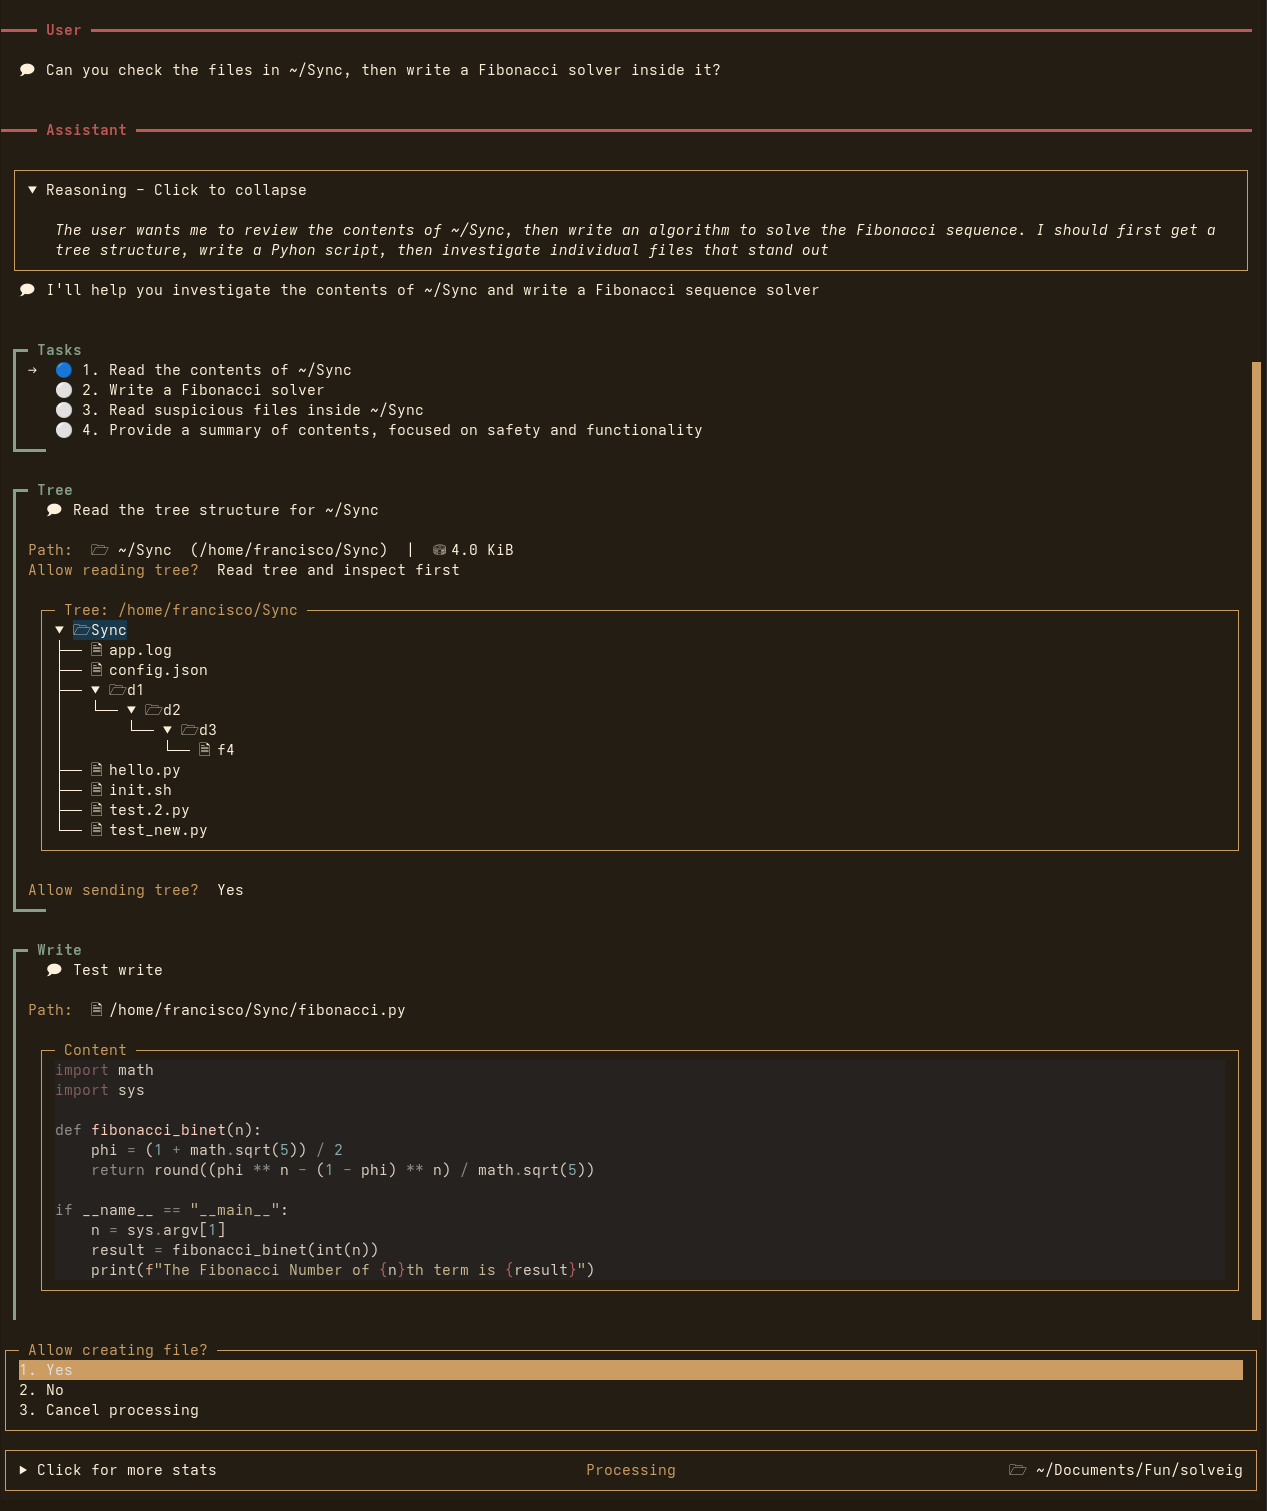
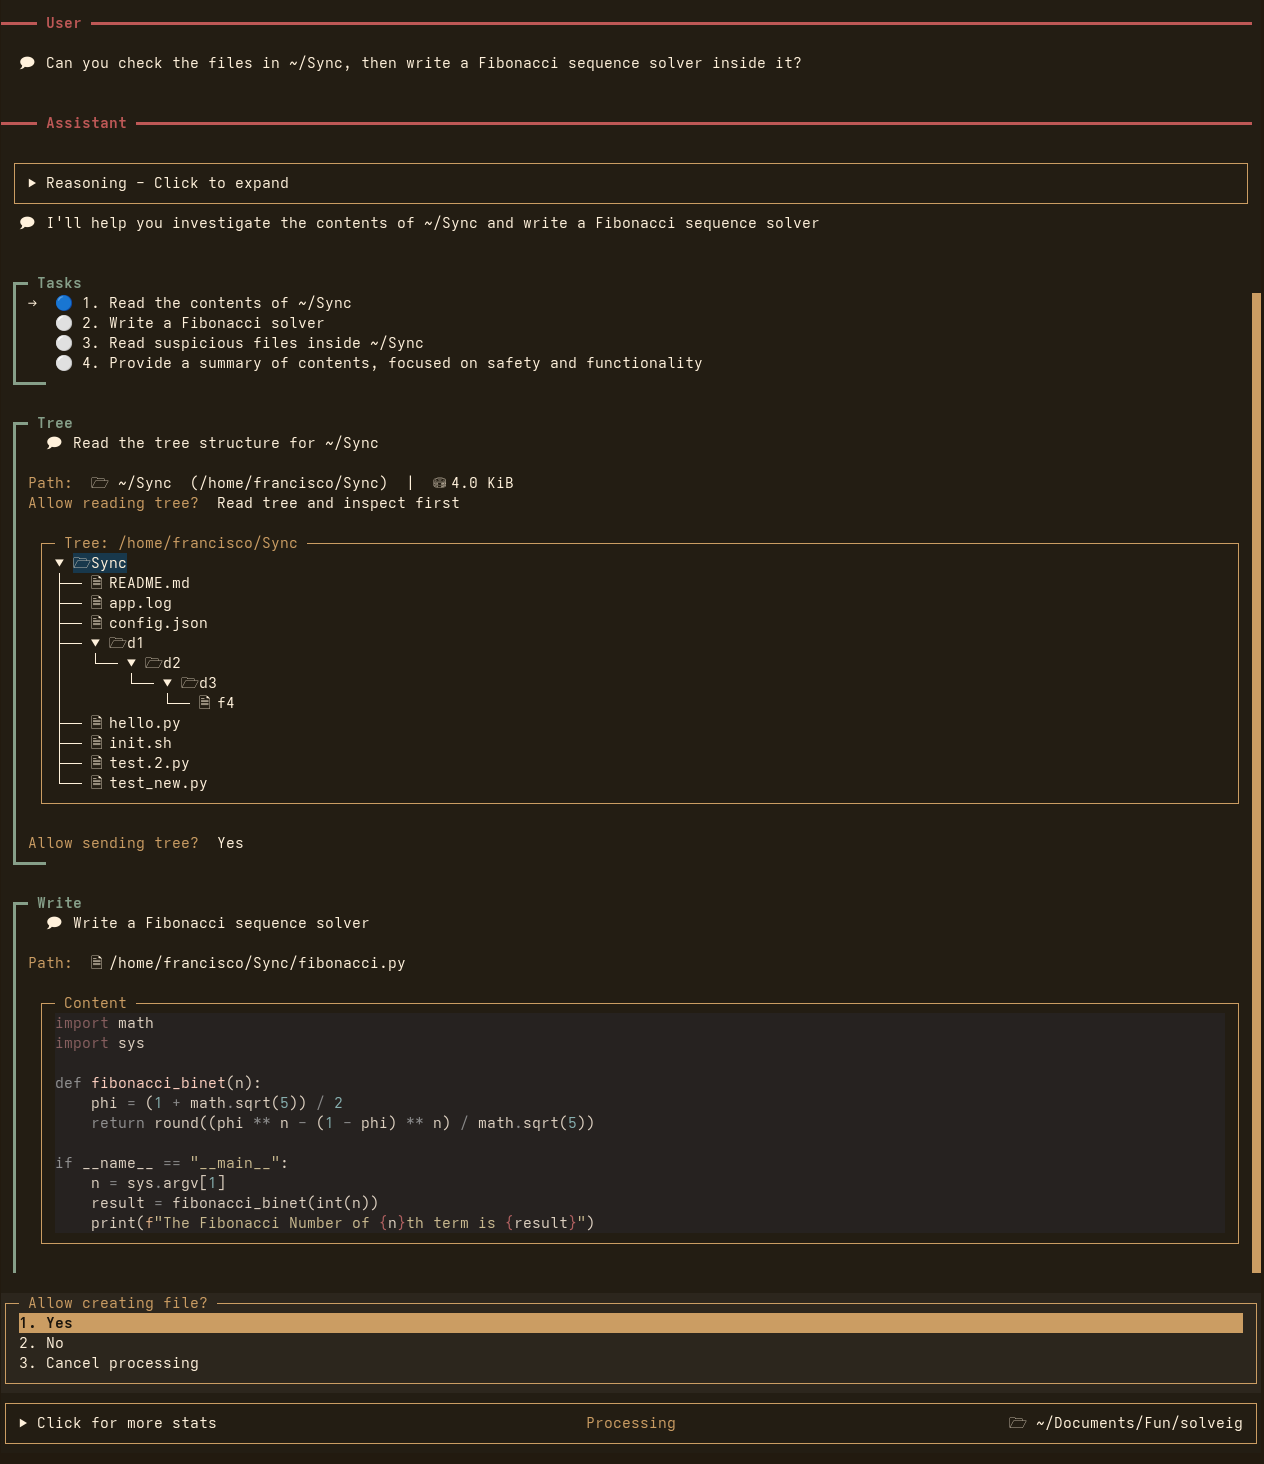
Removed restriction that enforced setting encoder for token counting, now defaults to cl100k_base (accurate token counting is done from LLM responses anyway). Updated demo image.

diff --git a/solveig/llm.py b/solveig/llm.py
@@ -31,13 +31,14 @@ class APIType:
                 except (KeyError, ValueError):
                     try:
                         encoder = tiktoken.get_encoding(encoder_or_model)
-                    except Exception as e:
-                        available = set(tiktoken.list_encoding_names())
-                        available.update(tiktoken.model.MODEL_TO_ENCODING.keys())
-                        e.add_note(
-                            f"Could not find an encoding for '{encoder_or_model}', use one of {available}"
-                        )
-                        raise e
+                    except Exception:
+                        # available = set(tiktoken.list_encoding_names())
+                        # available.update(tiktoken.model.MODEL_TO_ENCODING.keys())
+                        # e.add_note(
+                        #     f"Could not find an encoding for '{encoder_or_model}', use one of {available}"
+                        # )
+                        # raise e
+                        encoder = cls._encoder_cache[None]
                 cls._encoder_cache[encoder_or_model] = encoder
             return len(encoder.encode(text))
 
@@ -62,20 +63,20 @@ class APIType:
         default_url = "https://api.openai.com/v1"
         name = "openai"
 
-        @classmethod
-        def _get_encoder(cls, encoder_name: str) -> Any:
-            try:
-                return tiktoken.encoding_for_model(encoder_name)
-            except KeyError:
-                try:
-                    return tiktoken.get_encoding(encoder_name)
-                except ValueError as e:
-                    available = set(tiktoken.list_encoding_names())
-                    available.update(tiktoken.model.MODEL_TO_ENCODING.keys())
-                    e.add_note(
-                        f"Could not find an encoding for '{encoder_name}', use one of {available}"
-                    )
-                    raise e
+        # @classmethod
+        # def _get_encoder(cls, encoder_name: str) -> Any:
+        #     try:
+        #         return tiktoken.encoding_for_model(encoder_name)
+        #     except KeyError:
+        #         try:
+        #             return tiktoken.get_encoding(encoder_name)
+        #         except ValueError as e:
+        #             available = set(tiktoken.list_encoding_names())
+        #             available.update(tiktoken.model.MODEL_TO_ENCODING.keys())
+        #             e.add_note(
+        #                 f"Could not find an encoding for '{encoder_name}', use one of {available}"
+        #             )
+        #             raise e
 
         # def _encoder_count(self, encoder, text):
         #     return encoder.count_tokens(text)

diff --git a/tests/mocks/run_mock.py b/tests/mocks/run_mock.py
@@ -103,7 +103,7 @@ podman-compose up --build -d
                 ),
                 TreeTool(comment="Read the tree structure for ~/Sync", path="~/Sync"),
                 WriteTool(
-                    comment="Test write",
+                    comment="Write a Fibonacci sequence solver",
                     path="/home/francisco/Sync/fibonacci.py",
                     content="""
 import math
